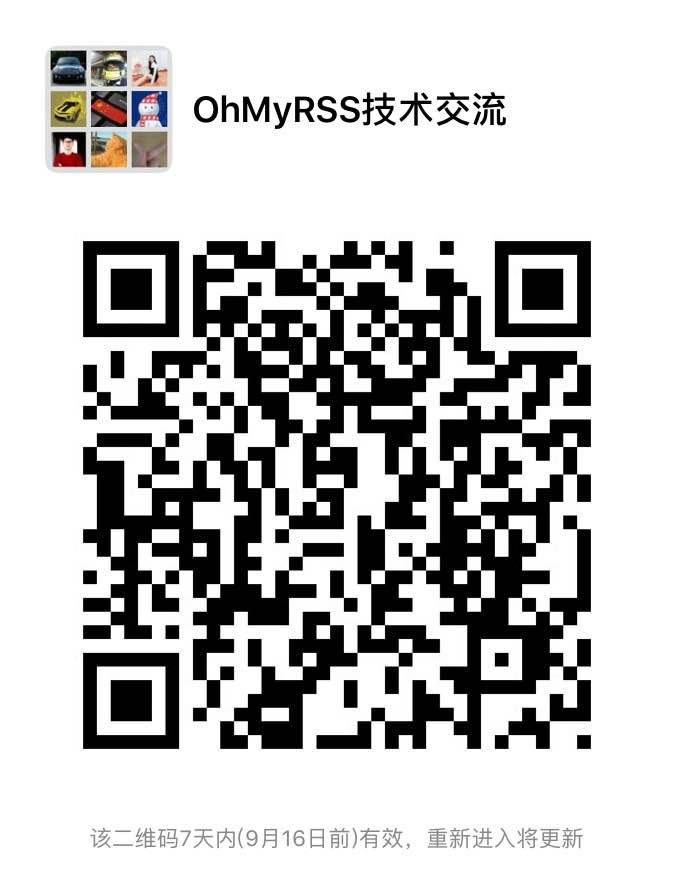
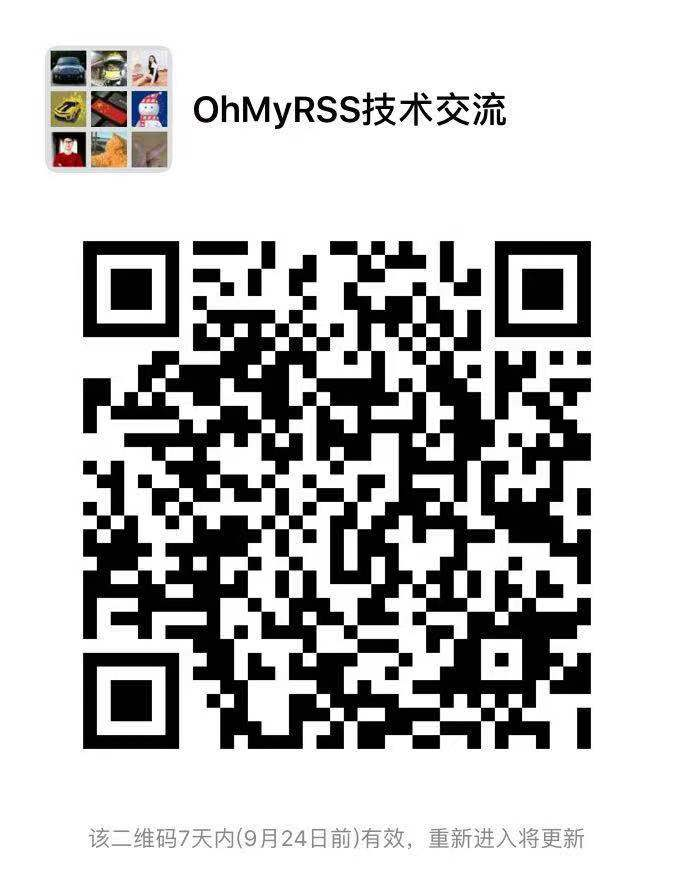
update qrcode

diff --git a/web/admin.py b/web/admin.py
@@ -8,7 +8,7 @@ class SiteAdmin(admin.ModelAdmin):
     list_display = ('name', 'cname', 'author', 'link', 'favicon', 'brief', 'star', 'freq', 'status', 'ctime', 'mtime',
                     'remark', 'tag', 'copyright')
     search_fields = ('name', 'cname', 'author', 'brief')
-    list_filter = ('status', 'freq', 'tag', 'copyright')
+    list_filter = ('status', 'freq', 'tag', 'copyright', 'creator')
     list_per_page = 100
 
 
